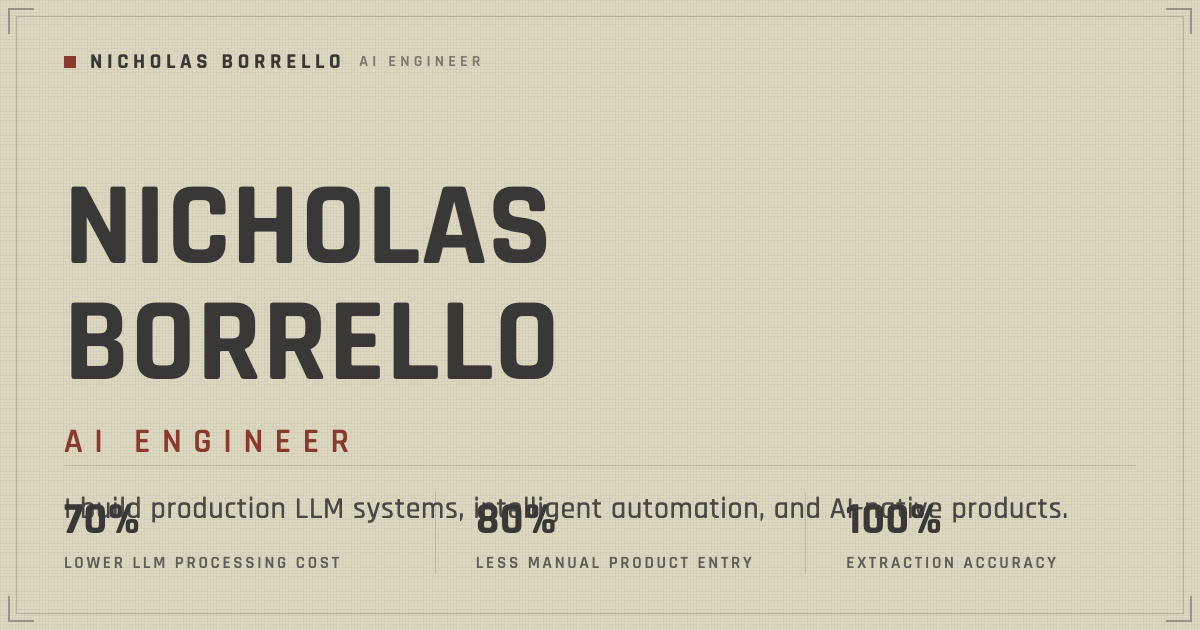
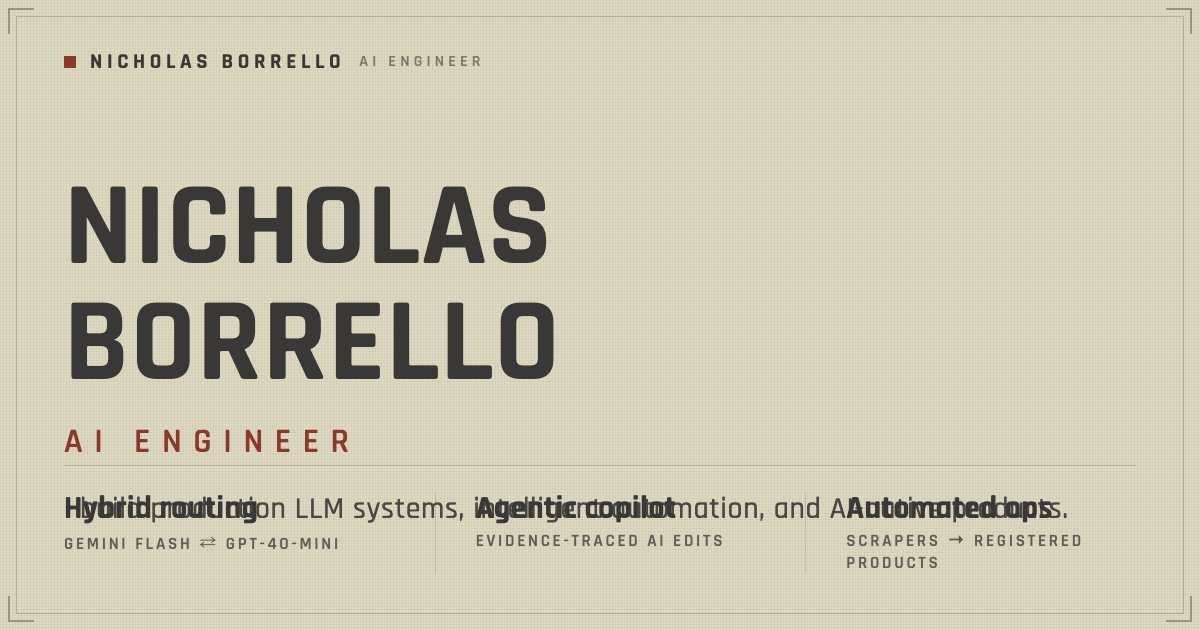
fix: replace fabricated metrics with honest qualitative proof
Remove all invented numeric claims (70% / 80% / 100% / 40%, 20+
suppliers) from the hero strip, Baystate + Allegro achievements and
impact bullets, the pipeline diagram tags/captions, proof evidence,
OG card, and generated resume. The telemetry strip now carries three
qualitative proof points: hybrid multi-provider routing, agentic
copilot with evidence-traced edits, and automated data ops. Fixes a
1px+ grid overflow on small screens by making strip values
viewport-relative.

Changed region(s): [[0.0308, 0.7841, 0.2775, 0.9048], [0.4008, 0.7841, 0.6167, 0.9048], [0.7092, 0.7841, 0.8942, 0.9048]]

diff --git a/data.ts b/data.ts
@@ -1,4 +1,4 @@
-import { CapabilityGroup, ContactLink, EducationItem, ExperienceItem, HeroMetric, ProjectItem, ProofEvidence, UserInfo } from './types';
+import { CapabilityGroup, ContactLink, EducationItem, ExperienceItem, HeroProof, ProjectItem, ProofEvidence, UserInfo } from './types';
 
 export const USER_INFO: UserInfo = {
   name: "Nicholas Borrello",
@@ -11,21 +11,21 @@ export const USER_INFO: UserInfo = {
   bio: "I'm an AI engineer who bridges raw LLM capability and production-grade software. At Baystate Pet & Garden I designed a hybrid Gemini + OpenAI consolidation pipeline that automated product registration end-to-end; at Resumancer I'm building an agentic resume engine where every AI edit traces back to verified evidence. My work centers on one question: how do you make LLMs reliably do real work — at scale, under cost constraints, with results you can prove?",
 };
 
-export const HERO_METRICS: HeroMetric[] = [
+export const HERO_PROOFS: HeroProof[] = [
   {
-    value: "70%",
-    label: "lower LLM processing cost",
-    detail: "Hybrid Gemini Flash + GPT-4o-mini routing on the Baystate consolidation pipeline",
+    value: "Hybrid routing",
+    label: "Gemini Flash ⇄ GPT-4o-mini",
+    detail: "Cost-gated task routing with validation gates on the Baystate consolidation pipeline.",
   },
   {
-    value: "80%",
-    label: "less manual product entry",
-    detail: "Automated product registration engine at Baystate Pet & Garden",
+    value: "Agentic copilot",
+    label: "evidence-traced AI edits",
+    detail: "Resumancer's copilot maps job requirements to verified career evidence — every edit staged and reviewable.",
   },
   {
-    value: "100%",
-    label: "extraction accuracy",
-    detail: "Validation-gated accuracy across the hybrid consolidation workflow",
+    value: "Automated ops",
+    label: "scrapers → registered products",
+    detail: "Playwright + Docker scraper fleet and an automated registration engine feeding Supabase and PostgreSQL.",
   },
 ];
 
@@ -39,10 +39,10 @@ export const WORK_EXPERIENCE: ExperienceItem[] = [
     type: "Full-time",
     summary: "Designing and running the company's AI data infrastructure: a multi-stage consolidation pipeline that turns vendor sources into registered, in-stock products.",
     achievements: [
-      "Engineered a hybrid AI pipeline routing extraction between Gemini Flash and GPT-4o-mini — 100% extraction accuracy at 70% lower LLM cost than single-provider.",
+      "Engineered a hybrid AI pipeline routing extraction between Gemini Flash and GPT-4o-mini, with validation gating on every result before it reaches inventory.",
       "Architected a distributed web-scraping fleet (Playwright + Docker) orchestrated by GitHub Actions for asynchronous vendor synchronization.",
       "Delivered a mission-critical inventory analytics dashboard (Next.js + Supabase) centralizing real-time sales data for daily decisions.",
-      "Built an automated product registration engine that cut manual entry by over 80%.",
+      "Built an automated product registration engine that replaced manual product entry in the daily workflow.",
     ],
     skills: ["Python", "TypeScript", "LLM Orchestration", "Next.js", "Docker", "Playwright", "Supabase", "PostgreSQL", "React"],
   },
@@ -72,7 +72,7 @@ export const WORK_EXPERIENCE: ExperienceItem[] = [
     type: "Internship",
     summary: "Automated test-driver deployment and standardized environments across the engineering team's CI/CD.",
     achievements: [
-      "Designed and deployed automated CI/CD pipelines for driver testing, cutting deployment validation time by 40%.",
+      "Designed and deployed automated CI/CD pipelines for driver testing, reducing deployment validation time.",
       "Introduced Infrastructure-as-Code patterns that standardized test environments across the team.",
     ],
     skills: ["Azure DevOps", "CI/CD", "PowerShell"],
@@ -128,9 +128,9 @@ export const PROJECTS: ProjectItem[] = [
       "Automated product registration engine writing into Supabase/PostgreSQL, feeding a Next.js analytics dashboard.",
     ],
     impact: [
-      "100% extraction accuracy across the consolidation workflow.",
-      "70% lower LLM processing cost than single-provider routing.",
-      "80% reduction in manual product entry; real-time sales data for daily decisions.",
+      "Validation-gated extraction: every extraction is checked before it touches inventory.",
+      "Cost-gated routing keeps cheap tasks on Flash and escalates hard cases.",
+      "Automated product registration replaced manual re-keying; real-time sales data feeds daily decisions.",
     ],
     role: "AI & Software Engineer — sole engineer on the platform.",
     tech: ["Python", "TypeScript", "Gemini", "OpenAI", "Playwright", "Docker", "GitHub Actions", "Next.js", "Supabase", "PostgreSQL"],
@@ -215,7 +215,7 @@ export const PROOF_EVIDENCE: Record<string, ProofEvidence> = {
   },
   "p-baystate": {
     context: "Baystate AI Data Pipeline",
-    detail: "Autonomous extraction pipeline: tasks routed between Gemini Flash and GPT-4o-mini with cost-gated escalation, validation gates with reject-and-retry, feeding an automated product registration engine — 100% accuracy at 70% lower cost.",
+    detail: "Autonomous extraction pipeline: tasks routed between Gemini Flash and GPT-4o-mini with cost-gated escalation, validation gates with reject-and-retry, feeding an automated product registration engine.",
   },
   "p-shopsite": {
     context: "ShopSite-MCP",

diff --git a/components/diagrams/BaystatePipeline.tsx b/components/diagrams/BaystatePipeline.tsx
@@ -23,7 +23,7 @@ export const BaystatePipeline: React.FC = () => {
     <svg
       viewBox="0 0 760 300"
       role="img"
-      aria-label="Baystate AI data pipeline diagram: vendor sources flow through a Playwright scraper fleet into a hybrid Gemini Flash and GPT-4o-mini router, pass a 100 percent accuracy validation gate, and land in Supabase and PostgreSQL product systems"
+      aria-label="Baystate AI data pipeline diagram: vendor sources flow through a Playwright scraper fleet into a hybrid Gemini Flash and GPT-4o-mini router, pass a validation gate, and land in Supabase and PostgreSQL product systems"
       className="w-full h-auto block"
     >
       <defs>
@@ -52,7 +52,7 @@ export const BaystatePipeline: React.FC = () => {
       <g>
         <rect x="320" y="30" width="104" height="18" rx="2" fill={accent} />
         <text x="372" y="43" textAnchor="middle" fontFamily="Rajdhani, sans-serif" fontWeight="700" fontSize="10.5" letterSpacing="1.2" fill="#ded8c1">
-          −70% LLM COST
+          COST-GATED ROUTING
         </text>
       </g>
 
@@ -60,7 +60,7 @@ export const BaystatePipeline: React.FC = () => {
       <g>
         <rect x="474" y="30" width="104" height="18" rx="2" fill={accent} />
         <text x="526" y="43" textAnchor="middle" fontFamily="Rajdhani, sans-serif" fontWeight="700" fontSize="10.5" letterSpacing="1.2" fill="#ded8c1">
-          100% ACCURACY
+          VALIDATION GATE
         </text>
       </g>
 
@@ -134,7 +134,7 @@ export const BaystatePipeline: React.FC = () => {
 
       {/* Captions under flow */}
       <g fontFamily="Inter, sans-serif" fontSize="9.5" fill={ink} fillOpacity="0.6">
-        <text x="20" y="152" fontWeight="600">20+ suppliers</text>
+        <text x="20" y="152" fontWeight="600">vendor catalogs</text>
         <text x="20" y="164">synced without</text>
         <text x="20" y="176">human re-keying</text>
 

diff --git a/components/Hero.tsx b/components/Hero.tsx
@@ -1,6 +1,6 @@
 import React from 'react';
 import { ArrowDown, ArrowUpRight, Github, Mail } from 'lucide-react';
-import { USER_INFO, HERO_METRICS, RESUME_URL } from '../data';
+import { USER_INFO, HERO_PROOFS, RESUME_URL } from '../data';
 
 export const Hero: React.FC = () => {
   return (
@@ -36,18 +36,18 @@ export const Hero: React.FC = () => {
           style={{ animationDelay: '180ms' }}
         >
           <p className="mt-3 lg:mt-5 font-tech font-semibold tracking-[0.22em] text-[10px] sm:text-[11px] text-nier-dark uppercase">
-            Measured outcomes
+            Proof points
           </p>
           <div className="mt-3 lg:mt-5 grid grid-cols-3 gap-3 sm:gap-6">
-            {HERO_METRICS.map((metric, i) => (
+            {HERO_PROOFS.map((metric, i) => (
               <div
                 key={metric.label}
-                className={i > 0 ? 'border-l border-nier-dark/15 pl-3 sm:pl-6' : undefined}
+                className={i > 0 ? 'min-w-0 border-l border-nier-dark/15 pl-3 sm:pl-6' : 'min-w-0'}
               >
-                <p className="font-tech font-bold text-2xl sm:text-4xl lg:text-5xl tracking-[0.01em] text-nier-darker">
+                <p className="font-tech font-bold text-[clamp(0.9rem,4.4vw,1.5rem)] sm:text-4xl lg:text-5xl tracking-[0.01em] text-nier-darker">
                   {metric.value}
                 </p>
-                <p className="mt-0.5 sm:mt-1 font-tech font-semibold tracking-[0.12em] sm:tracking-[0.14em] text-[10px] sm:text-xs uppercase text-nier-dark">
+                <p className="mt-0.5 sm:mt-1 font-tech font-semibold tracking-[0.08em] sm:tracking-[0.14em] text-[9px] sm:text-xs uppercase text-nier-dark">
                   {metric.label}
                 </p>
                 <p className="hidden lg:block mt-1.5 text-[13px] leading-relaxed text-nier-dark/90">

diff --git a/dist/index.html b/dist/index.html
@@ -27,8 +27,8 @@
   <!-- impeccable-disable-next-line overused-font: Inter is brief-pinned in issue #2 and continues the incumbent body face -->
   <link href="https://fonts.googleapis.com/css2?family=Rajdhani:wght@500;600;700&family=Inter:wght@400;500;600&display=swap" rel="stylesheet" />
 
-  <script type="module" crossorigin src="/assets/index-TGgXFSEU.js"></script>
-  <link rel="stylesheet" crossorigin href="/assets/index-CMOnN4lC.css">
+  <script type="module" crossorigin src="/assets/index-BCSXskbh.js"></script>
+  <link rel="stylesheet" crossorigin href="/assets/index-DVtylikV.css">
 </head>
 
 <body>

diff --git a/App.tsx b/App.tsx
@@ -26,7 +26,8 @@
  * with wordmark, anchor nav, and RESUME CTA; hero carries the
  * name in Rajdhani display, "AI Engineer", a positioning line,
  * one-sentence summary, four CTAs, a status line, and the
- * telemetry strip — 70% / 80% / 100% — the page's proof.
+ * telemetry strip — three qualitative proof points (no invented
+ * metrics) — the page's evidence at a glance.
  *
  * FORM: document portfolio (Experience mode with persuasive
  * clarity), brief-pinned IA from issue #2: Hero → Featured

diff --git a/types.ts b/types.ts
@@ -73,7 +73,7 @@ export interface UserInfo {
   bio: string;
 }
 
-export interface HeroMetric {
+export interface HeroProof {
   value: string;
   label: string;
   detail: string;

diff --git a/.impeccable/surfaces/index-html.md b/.impeccable/surfaces/index-html.md
@@ -16,7 +16,7 @@ Single-page portfolio (index.html). Mode: **Experience** — the work itself lea
 - Action: click View Work / open GitHub / email / view resume — the contact path must be reachable from the first viewport and repeated at the close.
 
 ## Proof & content
-- Three hero metrics, all traced to data.ts claims: 70% lower LLM processing cost, 80% reduction in manual product entry, 100% extraction accuracy (Baystate hybrid consolidation).
+- Three hero proof points (qualitative only — no fabricated metrics): hybrid multi-provider routing (Gemini Flash ⇄ GPT-4o-mini), agentic copilot with evidence-traced edits (Resumancer), automated data ops (scraper fleet → registered products).
 - Three visual case studies: Resumancer (live screenshots from resumancer.dev in public/work/), Baystate AI Data Pipeline (authored architecture diagram — pipeline is private), ShopSite-MCP (authored MCP architecture diagram — repo private).
 - Experience timeline (employment: Baystate, Atlas, Allegro; education: WPI MS separately).
 - Capabilities in three groups (Applied AI / Application Engineering / Data & Infrastructure), chips reveal 1–4 real usage examples; no tiers.
@@ -29,7 +29,7 @@ Single-page portfolio (index.html). Mode: **Experience** — the work itself lea
 - prefers-reduced-motion respected; no mandatory animation before content.
 
 ## Chosen direction & memorable moment
-"Field terminal" document (see DESIGN.md). Memorable moment: the telemetry strip — three measured outcomes (70% / 80% / 100%) presented as proof readouts directly under the hero, so the first viewport proves the claim before the visitor scrolls.
+"Field terminal" document (see DESIGN.md). Memorable moment: the telemetry strip — three qualitative proof points presented as readouts directly under the hero, so the first viewport shows the work's substance before the visitor scrolls.
 
 ## Unresolved decisions
 - `public/resume.pdf` ships a generated resume (facts from data.ts only) so all Resume CTAs resolve; owner should replace with their official resume PDF before job applications.

diff --git a/.impeccable/surface-brief-homepage.md b/.impeccable/surface-brief-homepage.md
@@ -9,7 +9,7 @@ Single-page portfolio (index.html). Mode: **Experience** — the work itself lea
 - Action: click View Work / open GitHub / email / view resume — the contact path must be reachable from the first viewport and repeated at the close.
 
 ## Proof & content
-- Three hero metrics, all traced to data.ts claims: 70% lower LLM processing cost, 80% reduction in manual product entry, 100% extraction accuracy (Baystate hybrid consolidation).
+- Three hero proof points (qualitative only — no fabricated metrics): hybrid multi-provider routing (Gemini Flash ⇄ GPT-4o-mini), agentic copilot with evidence-traced edits (Resumancer), automated data ops (scraper fleet → registered products).
 - Three visual case studies: Resumancer (live screenshots from resumancer.dev in public/work/), Baystate AI Data Pipeline (authored architecture diagram — pipeline is private), ShopSite-MCP (authored MCP architecture diagram — repo private).
 - Experience timeline (employment: Baystate, Atlas, Allegro; education: WPI MS separately).
 - Capabilities in three groups (Applied AI / Application Engineering / Data & Infrastructure), chips reveal 1–4 real usage examples; no tiers.
@@ -22,7 +22,7 @@ Single-page portfolio (index.html). Mode: **Experience** — the work itself lea
 - prefers-reduced-motion respected; no mandatory animation before content.
 
 ## Chosen direction & memorable moment
-"Field terminal" document (see DESIGN.md). Memorable moment: the telemetry strip — three measured outcomes (70% / 80% / 100%) presented as proof readouts directly under the hero, so the first viewport proves the claim before the visitor scrolls.
+"Field terminal" document (see DESIGN.md). Memorable moment: the telemetry strip — three qualitative proof points presented as readouts directly under the hero, so the first viewport shows the work's substance before the visitor scrolls.
 
 ## Unresolved decisions
 - `public/resume.pdf` ships a generated resume (facts from data.ts only) so all Resume CTAs resolve; owner should replace with their official resume PDF before job applications.
